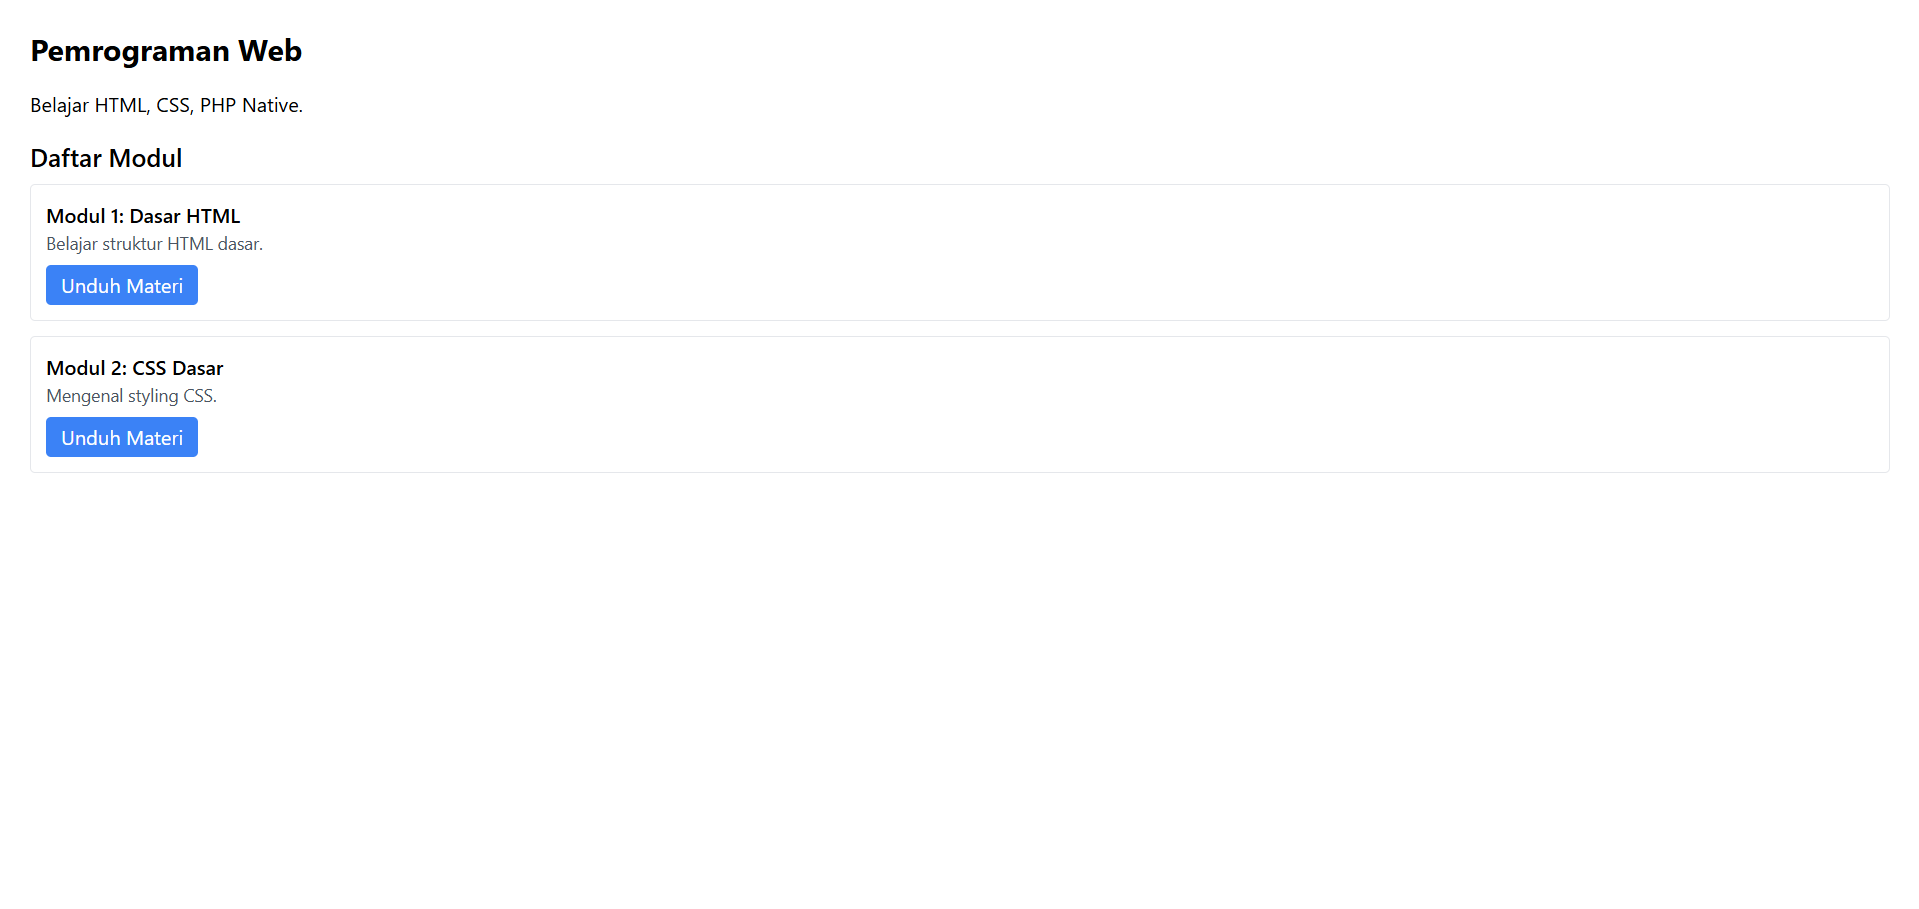
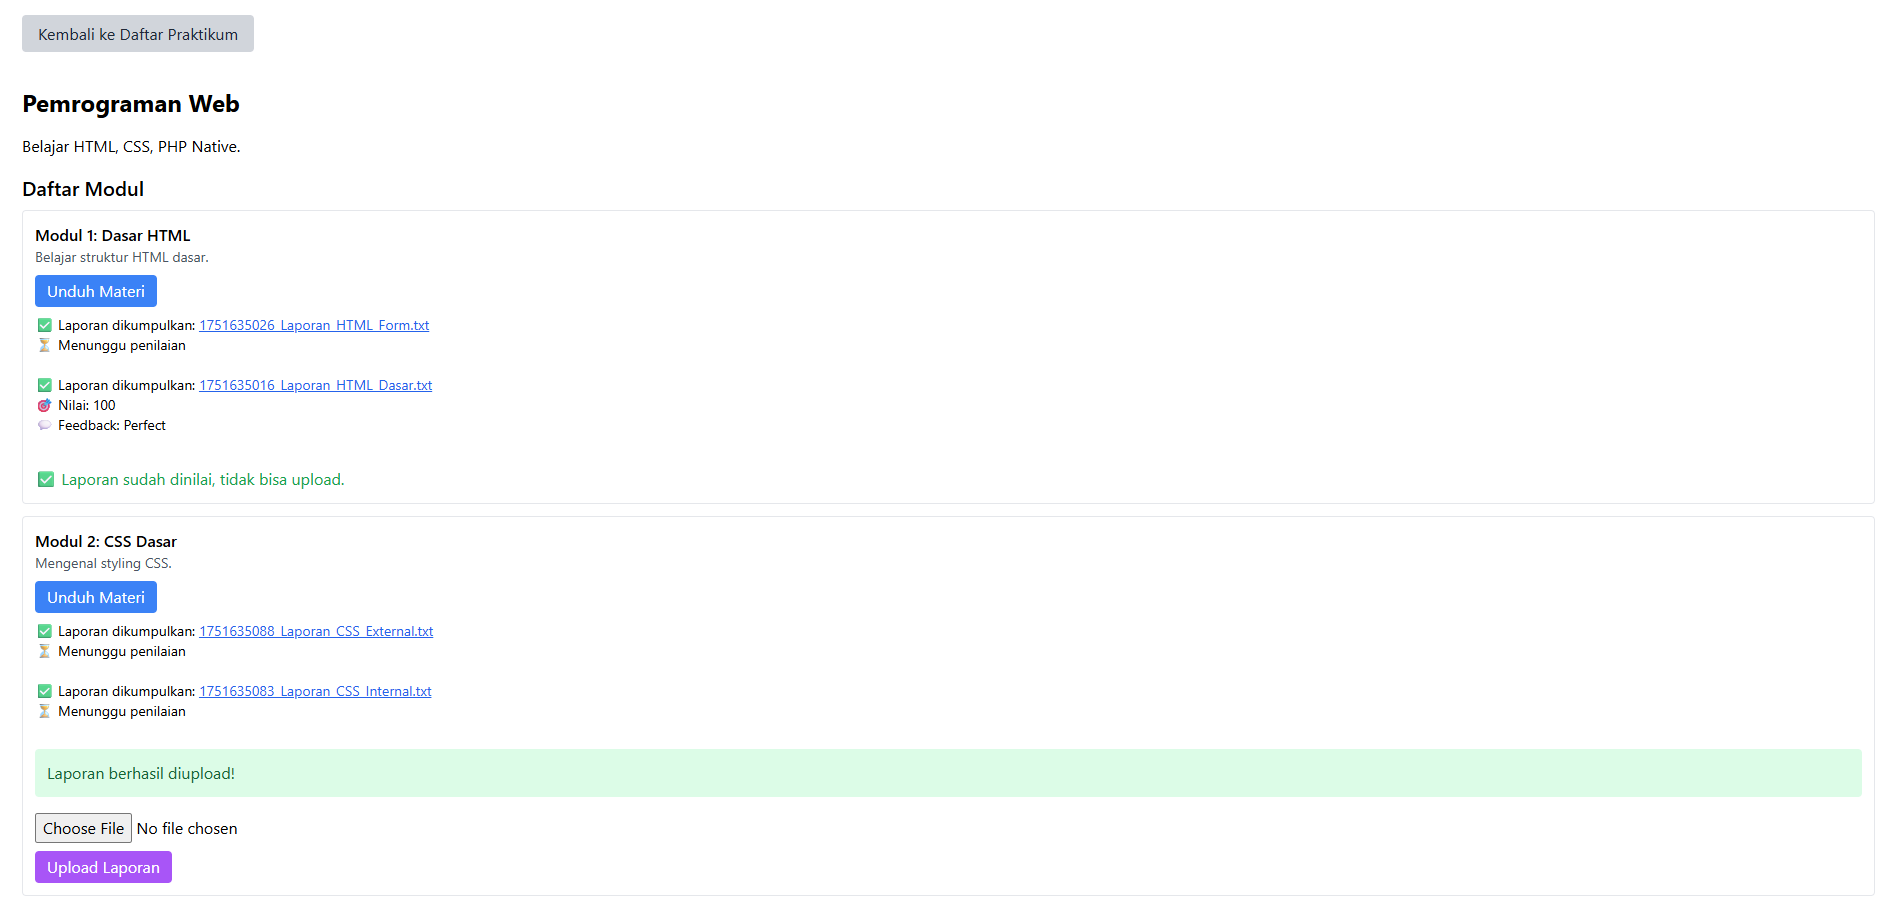
menambahkan atau memperbarui tombol Kembali pada halaman courses, detail_praktikum, dan my_courses

Changed region(s): [[0.0, 0.5878, 0.9968, 0.9901], [0.0, 0.1547, 0.2181, 0.5569], [0.0, 0.0, 0.1558, 0.1238]]

diff --git a/mahasiswa/pages/detail_praktikum.php b/mahasiswa/pages/detail_praktikum.php
@@ -65,15 +65,14 @@ $modulList = $stmtModul->get_result();
 </head>
 
 <body class="p-6">
-    <h1 class="text-2xl font-bold mb-4"><?= htmlspecialchars($praktikum['nama_praktikum']) ?></h1>
-    <p class="mb-4"><?= htmlspecialchars($praktikum['deskripsi']) ?></p>
-
-    <div class="mt-6">
+    <div class="mb-10">
         <a href="/mahasiswa/pages/my_courses.php" class="bg-gray-300 text-gray-800 px-4 py-2 rounded hover:bg-gray-400">
             Kembali ke Daftar Praktikum
         </a>
     </div>
-    <br>
+
+    <h1 class="text-2xl font-bold mb-4"><?= htmlspecialchars($praktikum['nama_praktikum']) ?></h1>
+    <p class="mb-4"><?= htmlspecialchars($praktikum['deskripsi']) ?></p>
 
     <h2 class="text-xl font-semibold mb-2">Daftar Modul</h2>
 

diff --git a/mahasiswa/pages/my_courses.php b/mahasiswa/pages/my_courses.php
@@ -35,6 +35,12 @@ $result = $stmt->get_result();
     <script src="https://cdn.tailwindcss.com"></script>
 </head>
 <body class="p-6">
+    <div class="mb-10">
+        <a href="/mahasiswa/dashboard.php" class="bg-gray-300 text-gray-800 px-4 py-2 rounded hover:bg-gray-400">
+            Kembali ke Dashboard
+        </a>
+    </div>
+
     <h1 class="text-2xl font-bold mb-4">Praktikum yang Kamu Ikuti</h1>
 
     <div class="grid gap-4 grid-cols-1 md:grid-cols-2">

diff --git a/mahasiswa/pages/courses.php b/mahasiswa/pages/courses.php
@@ -17,6 +17,12 @@ $result = $conn->query($sql);
 </head>
 
 <body class="p-6">
+    <div class="mb-10">
+        <a href="/mahasiswa/dashboard.php" class="bg-gray-300 text-gray-800 px-4 py-2 rounded hover:bg-gray-400">
+            Kembali ke Dashboard
+        </a>
+    </div>
+
     <h1 class="text-2xl font-bold mb-4">Daftar Mata Praktikum</h1>
 
     <?php if (!empty($_SESSION['success'])): ?>

diff --git a/README.md b/README.md
@@ -18,6 +18,3 @@
 
 - Detail Courses Mahasiswa
 ![Detail Courses Mahasiswa](/readme_images/preview-detail-courses-mahasiswa.png)
-
-- Upload Laporan
-![Upload Laporan](/readme_images/preview-upload-laporan.png)
